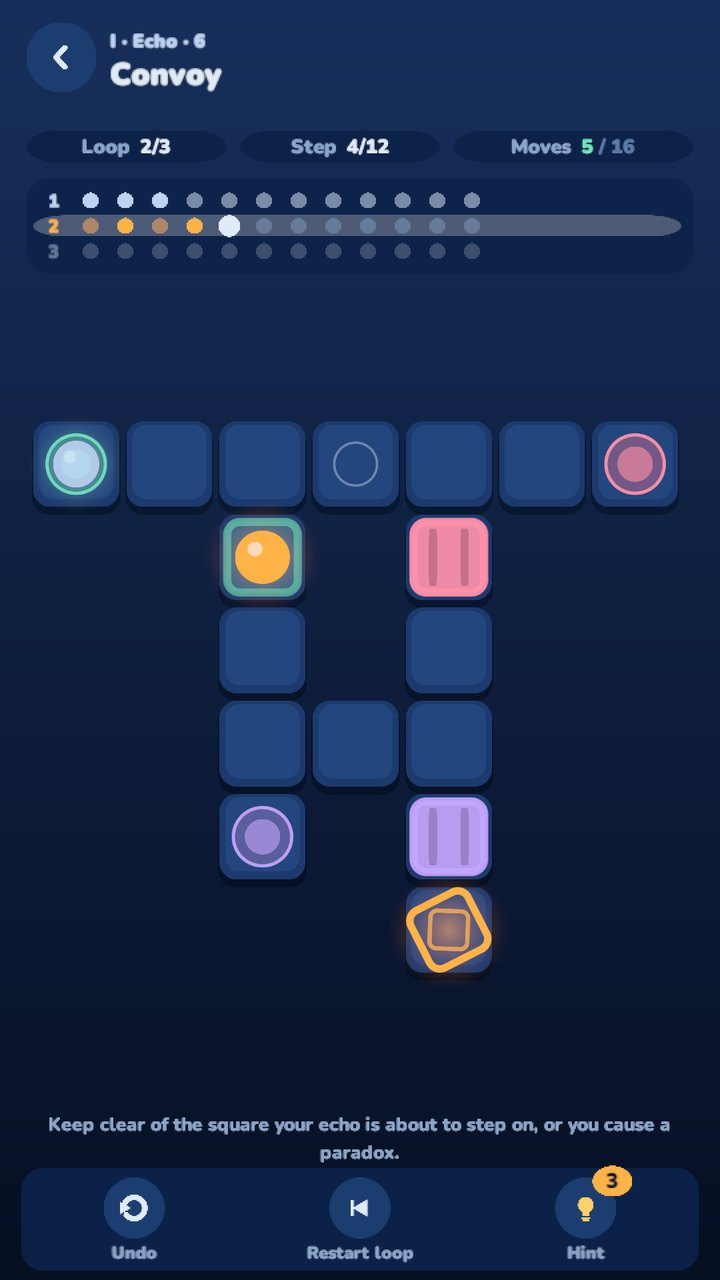
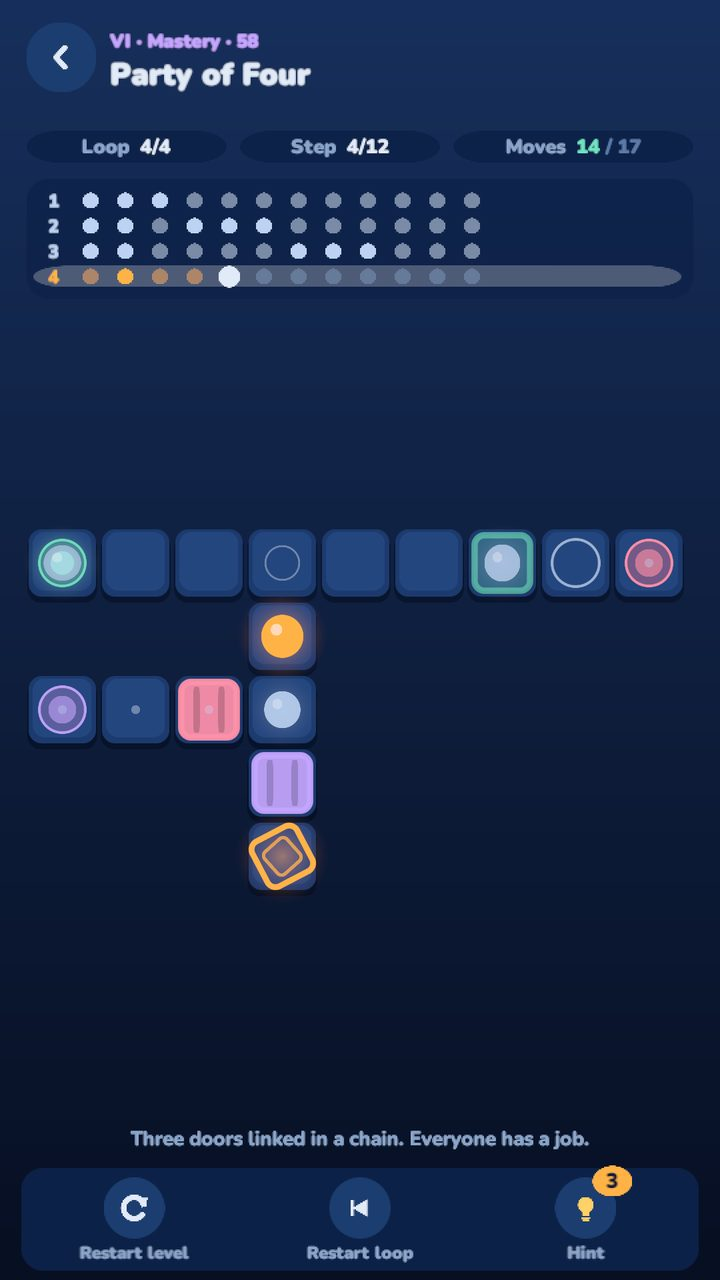
Twicetold screenshots: current toolbar (no Undo), level list and win card
The level screenshot showed the old Undo button; it now shows the
Restart level · Restart loop · Hint toolbar with the hint badge, and the
level list and win card are captured from the current game too. Alt text
updated to match.

diff --git a/twicetold/index.html b/twicetold/index.html
@@ -84,7 +84,7 @@
       </div>
       <div class="shots" aria-label="Screenshots">
         <div class="phone"><img src="/assets/shot-menu.jpg" alt="Title screen with Continue, Levels, Daily Puzzle, the leaderboard and settings" loading="lazy"></div>
-        <div class="phone"><img src="/assets/shot-echo.jpg" alt="A level in progress with the player, an echo, plates and doors, and the Undo, Restart loop and Hint buttons" loading="lazy"></div>
+        <div class="phone"><img src="/assets/shot-echo.jpg" alt="A level in progress with the player, an echo, plates and doors, and the Restart level, Restart loop and Hint buttons" loading="lazy"></div>
         <div class="phone"><img src="/assets/shot-levels.jpg" alt="Level select with chapters and stars" loading="lazy"></div>
         <div class="phone"><img src="/assets/shot-win.jpg" alt="Win card with stars, points and confetti" loading="lazy"></div>
       </div>
